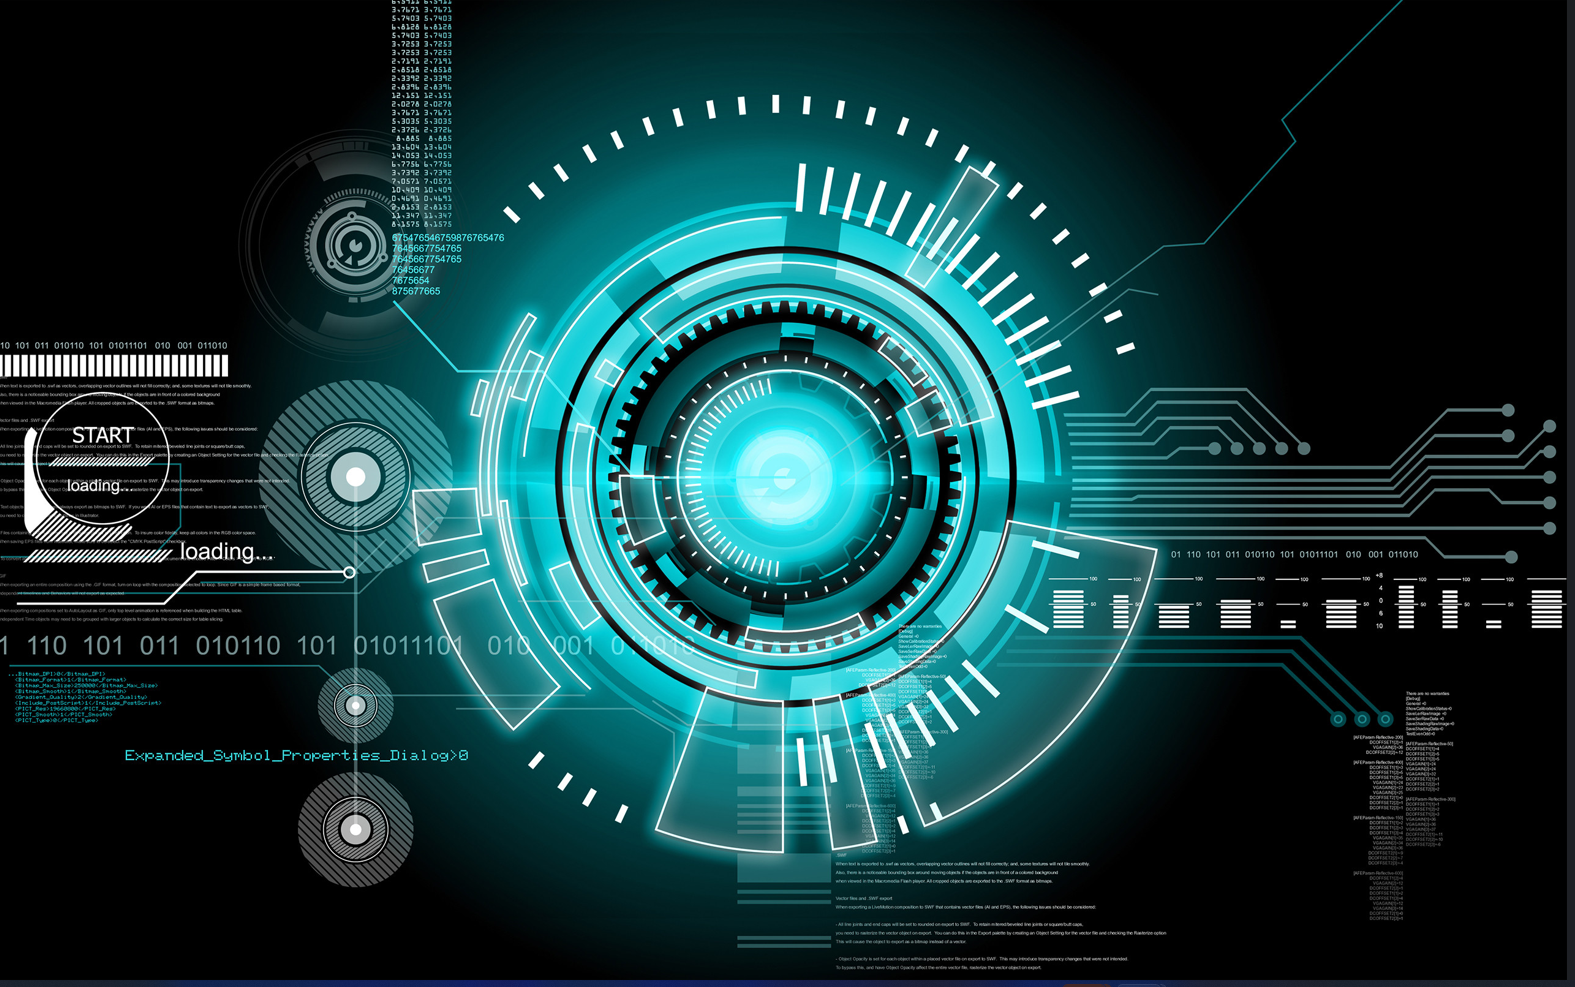
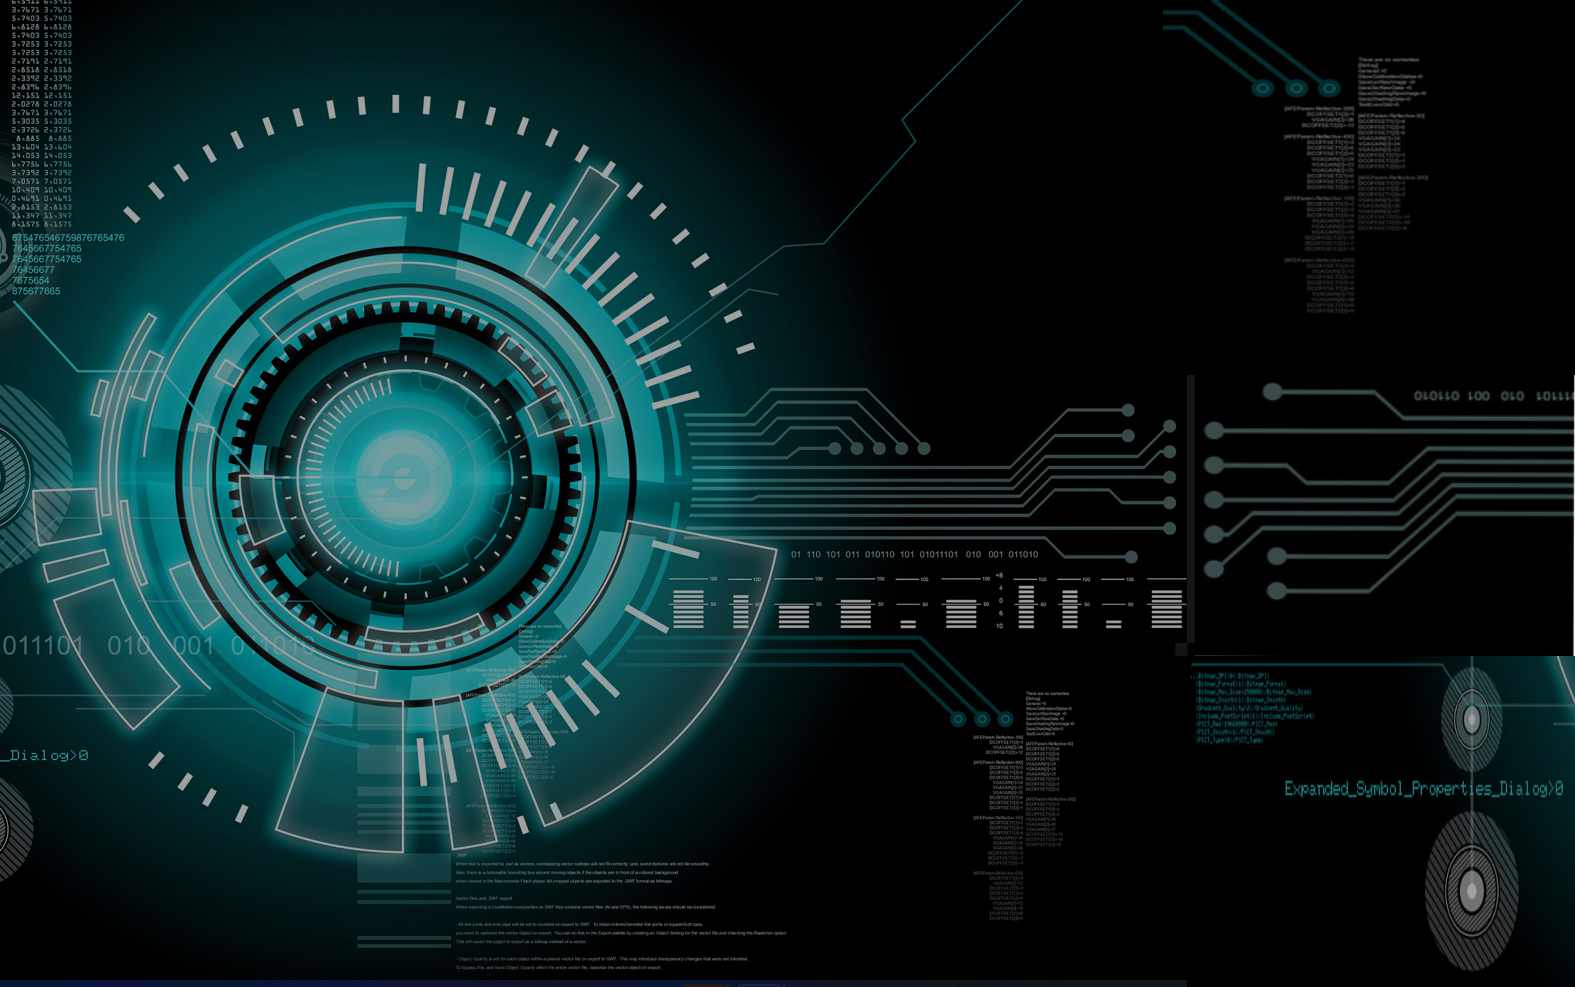
added background imges for events
made basic event card

diff --git a/templates/events.html b/templates/events.html
@@ -9,60 +9,47 @@ Events-{{type}}
 {% block style %}
 <!-- import css files or write css code-->
 <link href="{% static 'css/events.css' %}" rel="stylesheet">
+<link href="https://unpkg.com/aos@2.3.1/dist/aos.css" rel="stylesheet">
 
 {% endblock %}
 
 
 
+
 {% block content %}
 <!-- <div class="overlay" ></div> -->
-<div style="height: 60vh; width:100%;background-color: black ;align-items: center;; 
+<div class="pageheadbg-{{type}}" style=" width:100%; background-attachment: fixed;align-items: center; 
 justify-content: center; display:flex">
-    {% block pageheader %}
-    <div class="page-header header-filter" data-parallax="true" style="background-color:transparent; ">
-     <div class="container  my-5 bg-transparent text-white">
-       <div class="row">
-         <div class="col-md-auto ml-auto mr-auto">
-             {% block brand %}
-             <div class="brand" style="position: relative;  background-color: transparent; ">
-                 {% block heading %}
-                 <h1 style="font-family: 'Calistoga', cursive; letter-spacing:2px;"> Events</h1>
-                 <h2 style="text-transform: capitalize; font-family: 'Comfortaa', cursive; ">
-                 {% if type == 'Technical' %}
-                 Technical
-                 {% elif type == 'Informal' %}
-                 Informal
-                 {% elif type == 'Live' %}
-                 Live/Upcoming
-                 {% else %}
-                 Workshops/Sessions
-                 {% endif %}
-                 
-             </h2>
-             
-                 {% endblock %}
-             </div>
-             {% endblock %}
-           <br>
-         </div>
-       </div>
-     </div>
-   </div>
-   {% endblock %}
-   
-</div>
 
-<div class="container p-5 mb-5  shadow" style="background-color:white;position: relative;top: -70px; width: min-width;border-radius: 5px;">
+    <div class="page-header">
+        <div class="row">
+            <div class="col">
+                <h1 id="pagehead" data-aos="fade-down" data-aos-delay="1000" data-aos-duration="500" data-aos-once = "true" style="color: rgb(216, 217, 236); font-weight: 600;">{{type}}  Events</h2>
+            </div>
+        </div>
+    </div>
+
+</div>
+  
+   
+
+<div class="container p-5 mb-5  shadow" style="background-color:white;position: relative;top: -60px; width: min-width;border-radius: 5px;">
     <div class="row">
         <div class="col-md-4 ml-auto mr-auto justify-content-center">
             
             <!-- event cards -->
             {% if events.count == 0 %}
-            <p style="font-size: xx-large;">Coming Soon!!</p>
+            <p data-aos="fade-left" data-aos-delay="1000" data-aos-duration="2000" data-aos-once = "true" style="font-size: xx-large;">Coming Soon!!</p>
+            {% elif type == 'Live' %}
+                
+                {% for event in events %}
+
+                {% endfor %}
+
             {% else %}
                 {% for event in events %}
                 
-                <div class="card pb-3 shadow" style="width:fit-content;">
+                <div class="card pb-3 shadow " id="card" data-aos="fade-left" data-aos-delay="30000" data-aos-duration="3000" data-aos-once = "true" style="width:fit-content;">
                     <img class="card-img-top" src="{% static 'img/technicaleventsbg.png' %}" alt="Card image">
                     <div class="card-body">
                     <a href="{% url 'events:event' event.type event.pk %}" style="text-decoration: none;color: inherit;">
@@ -126,3 +113,9 @@ justify-content: center; display:flex">
 {% endblock %}
 
 
+{% block scripts %}
+<script src="{% static 'js/main.js' %}"></script>
+<script>
+    AOS.init();
+  </script>
+{% endblock %}

diff --git a/prometeo/static/css/events.css b/prometeo/static/css/events.css
@@ -1,7 +1,8 @@
 body{
 background-color: rgb(235, 235, 235);
-     
+bottom:0vh
 }
+
 .btn-learn-more {
     width: fit-content;
     font-weight: 500;
@@ -26,13 +27,59 @@ background-color: rgb(235, 235, 235);
     text-decoration: none;
   }
 
-  .overlay{
-    background-image: url("/static/img/technicaleventsbg.png");
-    width: 100%;
-    height: 80vh;
-    background-attachment:f;
-    opacity: 1;
-    position: absolute;
-    z-index: -1;
+
+
+.card{
+  transition: 0.1s
 }
+.card:hover{
+  transform: scale(1.01);
+}
+
+.page-header{
+ 
   
+  text-transform: uppercase;
+  text-shadow: 5px 5px 2px rgb(0, 0, 0)
+ 
+}
+#card{
+  transition: 0.2s;
+}
+#card:hover{
+  transform: scale(1.01);
+}
+
+.pageheadbg-Technical{
+  height: 60vh;
+  width:100%; 
+  background-image:url('/static/img/technicaleventsbg.png');
+  background-attachment: fixed;
+  align-items: center; 
+  justify-content: center; 
+  display:flex
+}
+
+.pageheadbg-Informal{
+  height: 60vh;
+  background-image:url('/static/img/generalheaderbg.jpg');
+  background-attachment: fixed;
+}
+
+.pageheadbg-Live{
+  height: 70vh;
+  background-image:url('/static/img/liveeventbg.jpg');
+  background-attachment: fixed;
+  /* background-repeat: no-repeat; */
+  background-size: cover;
+}
+.pageheadbg-Workshop{
+  height: 70vh;
+  background-image:url('/static/img/workshopbg.jpg');
+  background-attachment: fixed;
+  /* background-repeat: no-repeat; */
+  background-size: cover;
+  position: relative;
+  background-position-y: top;
+}
+

diff --git a/staticfiles/css/events.css b/staticfiles/css/events.css
@@ -1,7 +1,8 @@
 body{
 background-color: rgb(235, 235, 235);
-     
+bottom:0vh
 }
+
 .btn-learn-more {
     width: fit-content;
     font-weight: 500;
@@ -26,13 +27,49 @@ background-color: rgb(235, 235, 235);
     text-decoration: none;
   }
 
-  .overlay{
-    background-image: url("/static/img/technicaleventsbg.png");
-    width: 100%;
-    height: 80vh;
-    background-attachment:f;
-    opacity: 1;
-    position: absolute;
-    z-index: -1;
+
+
+.card{
+  transition: 0.1s
 }
+.card:hover{
+  transform: scale(1.01);
+}
+
+.page-header{
+ 
   
+  text-transform: uppercase;
+  text-shadow: 5px 5px 2px rgb(0, 0, 0)
+ 
+}
+#card{
+  transition: 0.2s;
+}
+#card:hover{
+  transform: scale(1.01);
+}
+
+.pageheadbg-Technical{
+  height: 60vh;
+  width:100%; 
+  background-image:url('/static/img/technicaleventsbg.png');
+  background-attachment: fixed;
+  align-items: center; 
+  justify-content: center; 
+  display:flex
+}
+
+.pageheadbg-Informal{
+  height: 60vh;
+  background-image:url('/static/img/generalheaderbg.jpg');
+  background-attachment: fixed;
+}
+
+.pageheadbg-Live{
+  height: 70vh;
+  background-image:url('/static/img/liveeventbg.jpg');
+  background-attachment: fixed;
+  /* background-repeat: no-repeat; */
+  background-size: cover;
+}

diff --git a/templates/template.html b/templates/template.html
@@ -13,8 +13,6 @@
 <!-- import css files or write css code-->
 {% endblock %}
 
-
-
 {% block content %}
 <!-- write your code here -->
 <div style="height: 400px; width:100%; background:rgb(28, 29, 29);align-items: center;

diff --git a/staticfiles/css/event.css b/staticfiles/css/event.css
@@ -1,3 +1,7 @@
 body{
     background-image: url("/static/img/technicaleventsbg.png");
+    background-attachment: fixed;
+}
+footer{
+    position: absolute;
 }
